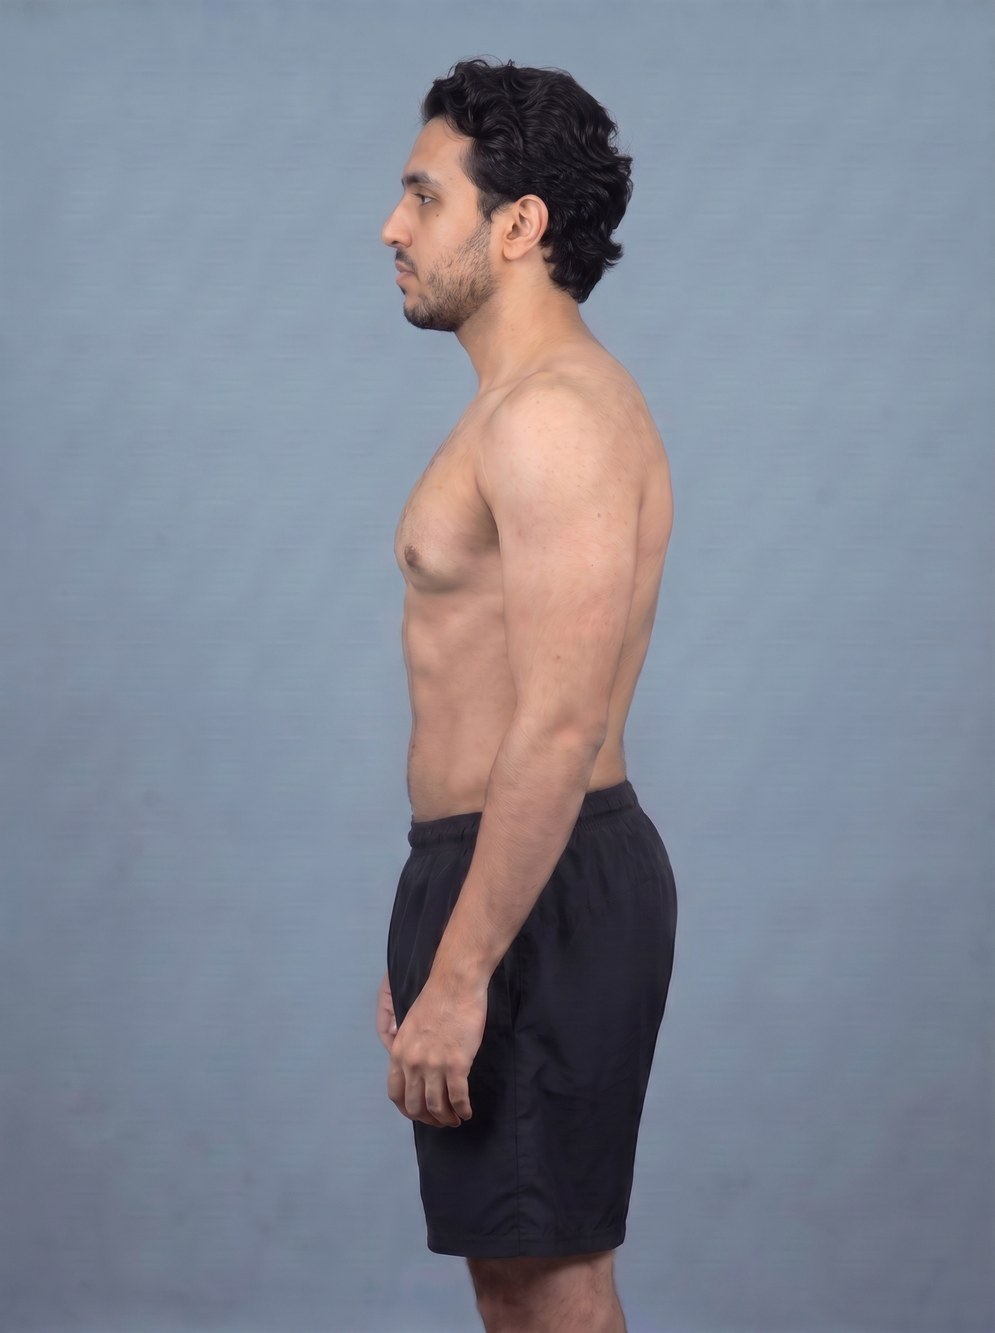
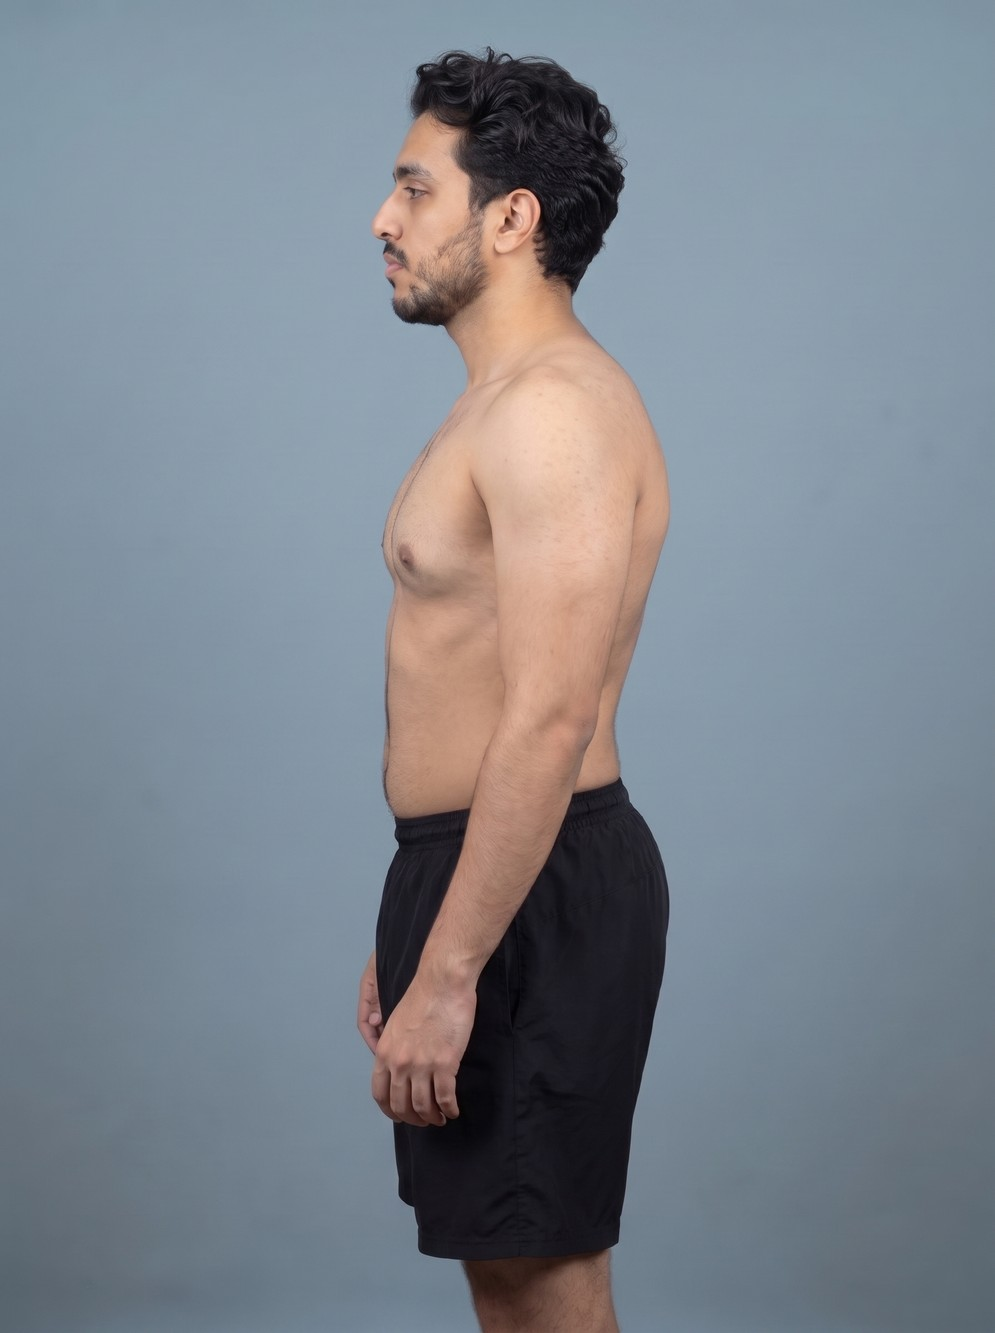
One-shot generation pipeline; clean body afters
- bodyAfterPrompt(plan, view) builds a complete body prompt: plan body
  changes + chosen hair & beard + head-size lock; refs = body baseline +
  approved face after, so no follow-up head edits
- RENDER_LOCK on every after: baseline skin colour, no redness/HDR/
  painterly texture (cause of the 'toasted' look was chained re-edits)
- Removed 'warm glow' visual that pushed skin red
- Console lists the three generations in order with their references
- Khalid body afters regenerated in one pass each from clean baselines

Claude-Session: https://claude.ai/code/session_01YK5LfND9fHzJNnxfHhhsd1

diff --git a/app/src/lib/plan.ts b/app/src/lib/plan.ts
@@ -316,7 +316,7 @@ export function buildPlan(scan: Scan, intake: Intake, opts: { includeHidden?: bo
     drivenBy: ["Skin colour"],
     priority: 3,
     tasks: [{ id: "veg", label: "5 portions of fruit & veg", cadence: "daily" }],
-    visual: "subtle healthy warm glow in the skin",
+    visual: "even, healthy natural skin colour (same tone, no added warmth or redness)",
   });
 
   /* ------------------------------ Training -------------------------- */
@@ -796,6 +796,10 @@ export function hairAdvice(intake: Intake, shape: string | null) {
 export const PRESENCE =
   "Overall the after must read as the sharper, healthier, well-rested version of the same man, not a copy of the baseline with a new haircut: alert, focused gaze with upper eyelids open (not heavy or hooded-looking from fatigue), clear eye whites, no under-eye shadows or puffiness; brows level and relaxed (no raised inner brows or worried angle), groomed; clear bright whites with natural catchlights; mouth corners neutral, not drooping; head held level with a long neck and shoulders back; healthy, warm, even skin colour (same skin tone); defined facial planes from fat loss — visible hollow under the cheekbones, crisp jawline and a clean chin-to-neck angle. Eyelid position and expression are NOT identity — only eye spacing, eye width and iris colour are locked; lift drooping upper lids so the eyes look awake. Expression: confident, focused gaze — brows straight and level (inner ends never raised), upper lids firm and awake, lower lids gently tightened in a slight confident squint, sharp bright eyes, direct gaze into the lens, a very subtle confident one-sided smirk, lips closed — never sleepy, sad or blank.";
 
+/** Keeps every render looking like the same camera and light as the baseline — no "toasted" skin. */
+export const RENDER_LOCK =
+  "Single clean render: skin colour identical to the baseline (no added redness, tan, warmth or saturation), natural skin texture, pores and body hair, no painterly smoothing, no HDR, no oversharpening — same camera, same lighting, same colour grade as the baseline.";
+
 export function afterPrompt(plan: Plan, intake: Intake): string {
   const changes = plan.items.filter((i) => i.visual).map((i, n) => `${n + 1}) ${i.visual}`);
   return [
@@ -803,7 +807,28 @@ export function afterPrompt(plan: Plan, intake: Intake): string {
     `Show the result of a realistic 12-month, evidence-based self-improvement plan. Apply ALL of these changes clearly and visibly: ${changes.join("; ")}.`,
     PRESENCE,
     "LOCK identity and bone: identical eye shape and eye spacing, nose width and shape, lips, ears, jaw bone width, chin, skull shape, ethnicity and skin tone (do not lighten the skin). Fat loss may slim soft tissue only. No surgery-like changes. Always edit the original baseline, never a previous after image.",
-    `Confident, focused gaze, lips closed. Photorealistic, no makeup${intake.gender === "female" ? " beyond the person's usual" : ""}, no beauty filter, natural skin texture.`,
+    `Confident, focused gaze, lips closed. Photorealistic, no makeup${intake.gender === "female" ? " beyond the person's usual" : ""}, no beauty filter.`,
+    RENDER_LOCK,
+  ].join(" ");
+}
+
+const BODY_IDS = new Set(["fatloss", "lifting", "posture", "forward-head", "rounded-shoulders"]);
+
+/**
+ * One-shot body after. Edits the standardized physique baseline once and takes
+ * the approved face after as the head reference, so hair, beard and expression
+ * match without follow-up edits.
+ */
+export function bodyAfterPrompt(plan: Plan, view: "front" | "side"): string {
+  const body = plan.items.filter((i) => BODY_IDS.has(i.id) && i.visual).map((i, n) => `${n + 1}) ${i.visual}`);
+  const hair = plan.items.find((i) => i.id === "haircut")?.visual;
+  const beard = plan.items.find((i) => i.id === "beard")?.visual;
+  return [
+    `Edit the first image (standardized physique baseline, ${view} view). Keep the same person, camera angle, framing, black athletic shorts, slate blue-grey studio background (#A9BDC4) and lighting so it lines up 1:1 as a before/after pair. The second image is the approved face after: match its face, expression, hair and beard exactly${view === "side" ? " (seen in profile)" : ""}.`,
+    `Apply ALL of these clearly and visibly: ${body.length ? body.join("; ") : "1) realistic improvements from 12 months of training and fat loss"}.`,
+    `Head: ${[hair && `hair — ${hair}`, beard && `beard — ${beard}`].filter(Boolean).join("; ") || "as in the second image"}. Keep the head the same size relative to the body as in the first image, with hair volume close to the head.`,
+    "Keep the same skeleton, height, shoulder bone width, limb lengths and proportions; natural, drug-free muscle gain only (no bodybuilder or fitness-model physique).",
+    RENDER_LOCK,
   ].join(" ");
 }
 

diff --git a/app/src/pages/review/tools.tsx b/app/src/pages/review/tools.tsx
@@ -17,17 +17,8 @@ import "../pages.css";
 export const BODY_BASELINE_PROMPT =
   "Clinical standardized physique baseline photo of the exact same person from the reference photos (front body, side body, face). Strictly preserve the real body as it is now: identical body shape, proportions, shoulder width, chest, arms, waist and belly fullness, body fat level, body hair, skin tone, face, hair and facial hair. Do not slim, tone, sculpt or idealize anything, and keep the real standing posture. Re-photograph standing naturally (front view: facing the camera, arms hanging slightly away from the sides, feet hip-width; side view: strict side-on, arms relaxed), wearing loose black athletic gym shorts (fitted underwear-style shorts trip image-model safety filters). Framing from the top of the head to mid-thigh (or head to toe if the full body is visible in the references). Plain seamless studio background in flat muted slate blue-grey (#A9BDC4), soft even studio lighting, camera at chest height from about 3 m with a 70 mm lens so there is no wide-angle distortion. Photorealistic, true-to-life, no retouching.";
 
-export function bodyAfterPrompt(visuals: string[]) {
-  const body = visuals.filter((x) => /body|stomach|waist|shoulder|muscle|training|standing|posture|glute|arms/i.test(x));
-  const list = body.length ? body.map((x, i) => `${i + 1}) ${x}`).join("; ") : "1) realistic improvements from 12 months of training and fat loss";
-  return [
-    "Edit the first image (the standardized physique baseline). Keep the exact same person, face, hair, skin tone, body hair, camera angle, framing, black athletic shorts, slate blue-grey studio background (#A9BDC4) and lighting so it lines up 1:1 as a before/after pair.",
-    `Show the result of a realistic 12-month, evidence-based training and nutrition plan. Apply ALL of these clearly and visibly: ${list}. Keep the head the same size relative to the body.`,
-    "Keep the same skeleton, height, shoulder bone width, limb lengths and proportions; natural, drug-free muscle gain only (no bodybuilder or fitness-model physique), realistic skin and body hair. Photorealistic, no retouching or beauty filter.",
-  ].join(" ");
-}
 
-export function BodyVisuals({ scanId, visuals, bodyPhoto, sidePhoto, afterText }: { scanId: string; visuals: Visuals; bodyPhoto: string | null; sidePhoto: string | null; afterText: string }) {
+export function BodyVisuals({ scanId, visuals, bodyPhoto, sidePhoto, afterText }: { scanId: string; visuals: Visuals; bodyPhoto: string | null; sidePhoto: string | null; afterText: [string, string] }) {
   const b = visuals.body ?? {};
   const set = (key: "front" | "side" | "afterFront" | "afterSide") => (x: string | undefined) => setVisuals(scanId, { body: { ...b, [key]: x } });
   return (
@@ -41,7 +32,8 @@ export function BodyVisuals({ scanId, visuals, bodyPhoto, sidePhoto, afterText }
         <Slot label="After · side" tag="After" value={b.afterSide} onChange={set("afterSide")} />
       </div>
       <PromptBlock title="3 · Body baseline (standardized physique)" text={BODY_BASELINE_PROMPT} />
-      <PromptBlock title="4 · Body after (end of plan)" text={afterText} />
+      <PromptBlock title="② Body after · front (refs: front body baseline + approved face after)" text={afterText[0]} />
+      <PromptBlock title="③ Body after · side (refs: side body baseline + approved face after)" text={afterText[1]} />
     </section>
   );
 }

diff --git a/app/src/pages/review/ReviewScan.tsx b/app/src/pages/review/ReviewScan.tsx
@@ -2,14 +2,14 @@ import { useMemo, type ReactNode } from "react";
 import { Link, useParams } from "react-router-dom";
 import { GradeBadge } from "../../components/ui";
 import { refreshBody, bmiOf } from "../../lib/bodyAnalysis";
-import { afterPrompt, BASELINE_PROMPT, buildPlan } from "../../lib/plan";
+import { afterPrompt, BASELINE_PROMPT, bodyAfterPrompt, buildPlan } from "../../lib/plan";
 import { SCORE_LABEL, type ScoreKey } from "../../lib/report";
 import { photoUrl, setActiveProfile, setReview, setVisuals, updateScan, useAppState } from "../../lib/store";
 import { faceNeeds, rankBeard, rankHair } from "../../lib/styles";
 import type { Review, Scan } from "../../lib/types";
 import { checklistFor, type Check } from "./checklist";
 import { statusOf } from "./Review";
-import { BodyVisuals, MeshViewer, PoseViewer, PromptBlock, RealismPanel, Slot, StyleGallery, StyleLibrary, bodyAfterPrompt } from "./tools";
+import { BodyVisuals, MeshViewer, PoseViewer, PromptBlock, RealismPanel, Slot, StyleGallery, StyleLibrary } from "./tools";
 import "./review.css";
 
 const SECTIONS: { id: Check["section"]; n: string; title: string }[] = [
@@ -218,7 +218,7 @@ export function ReviewScan() {
       )}
 
       {/* 5 · Visuals */}
-      <Section id="visuals" n="5" title="Visuals" lead="Generate from the prompts (FLUX for the baseline, Nano Banana Pro for edits), upload the results, then run the realism check. Always edit from the baseline, never from a previous after.">
+      <Section id="visuals" n="5" title="Visuals" lead="Your hair and beard pick (step 4) and the plan fill these prompts automatically. Run each once, in order, always from the baseline — never from a previous after: ① face after (attach the face baseline) → ② body front and ③ body side (attach that view's body baseline + the approved face after). Then upload and run the realism check.">
         <div className="vz-slots">
           <Slot label="Standardized model" tag="Before" value={v.baseline} onChange={(x) => setVisuals(scan.id, { baseline: x })} fallback={face} />
           <Slot label="12-month after" tag="After" value={v.after} onChange={(x) => setVisuals(scan.id, { after: x })} />
@@ -236,8 +236,8 @@ export function ReviewScan() {
           />
         )}
         <PromptBlock title="Face baseline (standardized model)" text={BASELINE_PROMPT} />
-        <PromptBlock title="Face after (end of plan)" text={afterPrompt(plan, intake)} />
-        {(scan.body || scan.bodySide) && <BodyVisuals scanId={scan.id} visuals={v} bodyPhoto={body} sidePhoto={side} afterText={bodyAfterPrompt(plan.items.map((i) => i.visual ?? ""))} />}
+        <PromptBlock title="① Face after (refs: face baseline)" text={afterPrompt(plan, intake)} />
+        {(scan.body || scan.bodySide) && <BodyVisuals scanId={scan.id} visuals={v} bodyPhoto={body} sidePhoto={side} afterText={[bodyAfterPrompt(plan, "front"), bodyAfterPrompt(plan, "side")]} />}
         <StyleGallery scanId={scan.id} visuals={v} />
         {checks("visuals")}
       </Section>
